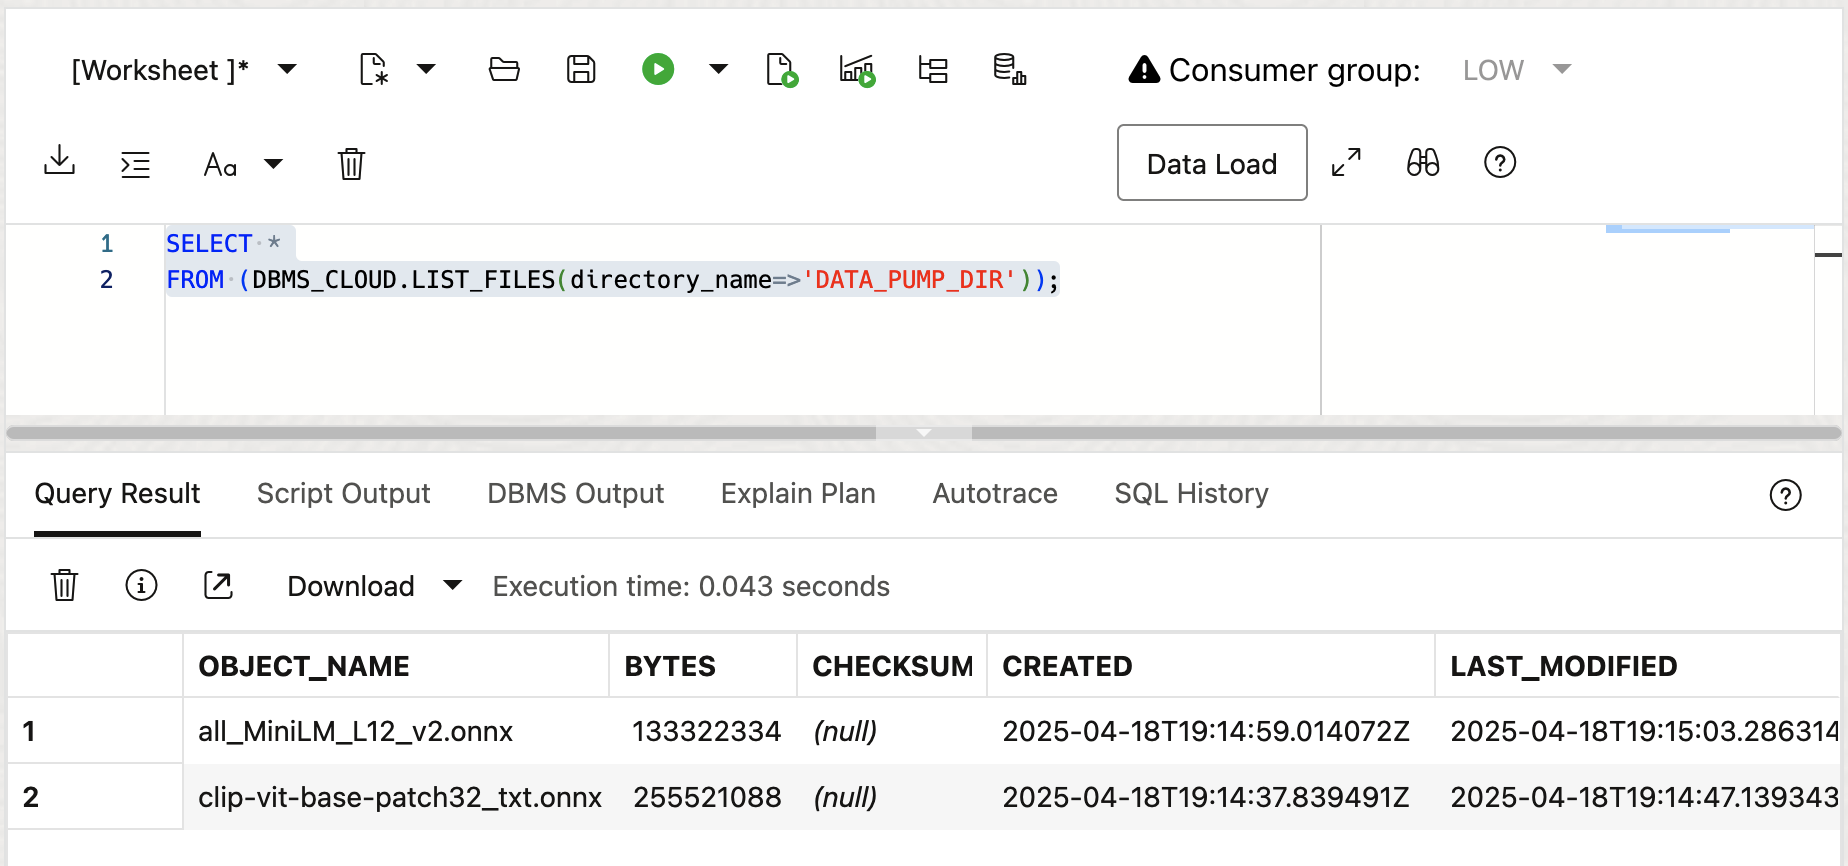
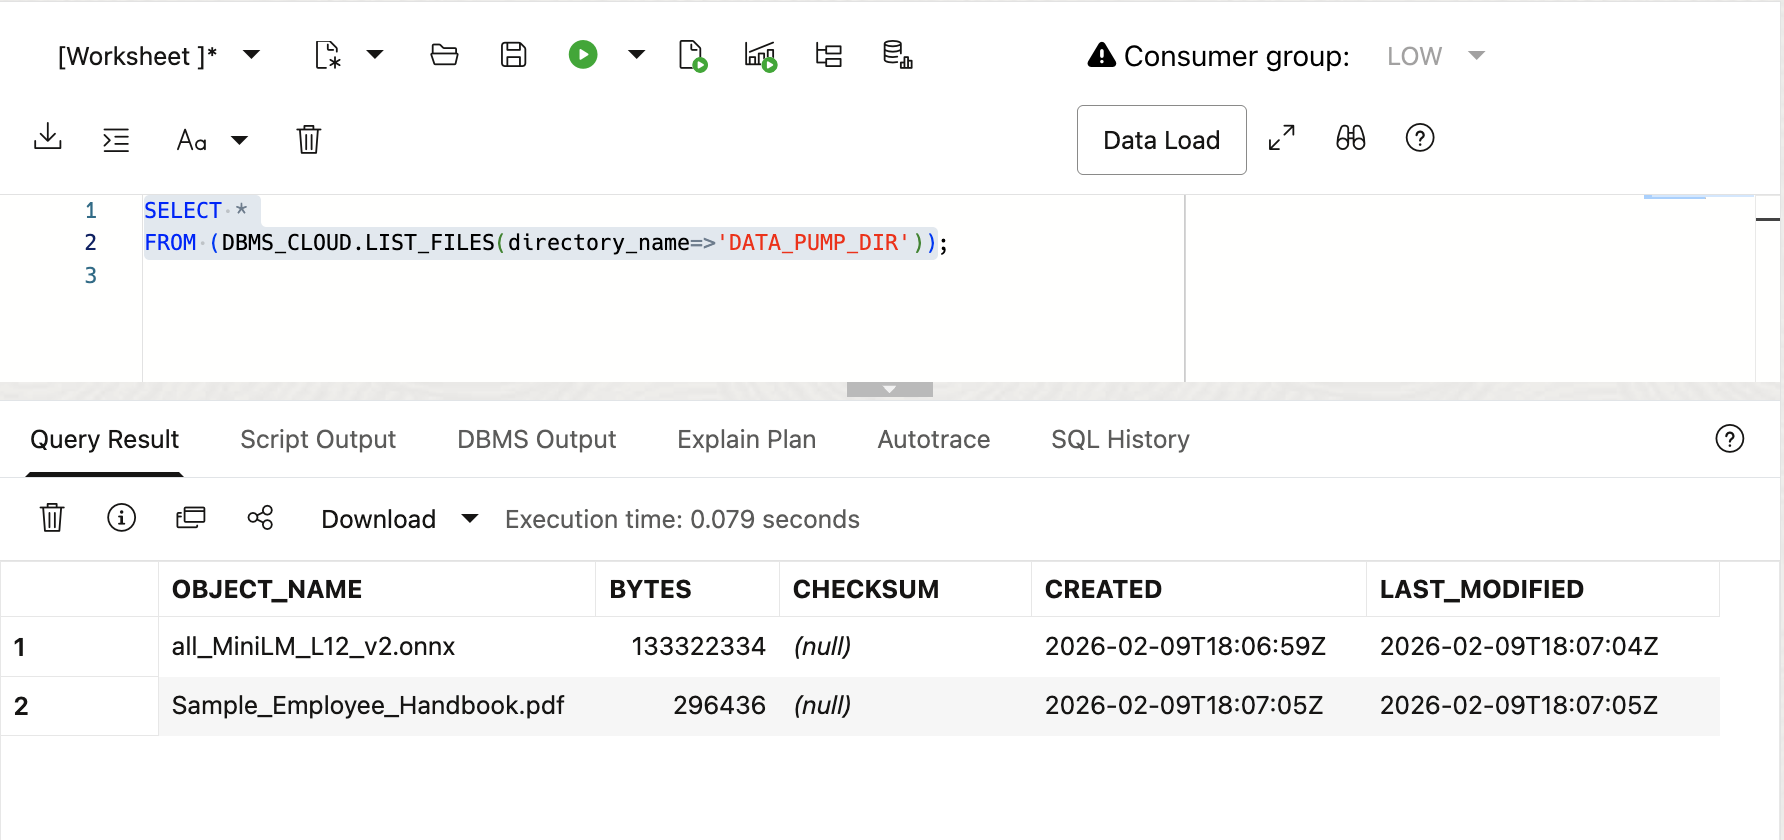
Updates for new RAG and Image Search labs

diff --git a/ai-vector-search-fundamentals/rag/rag.md b/ai-vector-search-fundamentals/rag/rag.md
@@ -98,9 +98,9 @@ This task will load the sample employee handbook into the database, and then con
     ```
     <copy>
     VARIABLE user_query VARCHAR2(1000);
-    EXEC :user_query := 'How do I drop a dependent?';
+    EXEC :user_query := 'How much sick leave do I get?';
     SELECT doc_id, embed_id, embed_data FROM doc_chunks
-    ORDER BY VECTOR_DISTANCE(embed_vector, VECTOR_EMBEDDING(minilm_l12_v2 USING :user_query as data), COSINE)
+    ORDER BY VECTOR_DISTANCE(embed_vector, VECTOR_EMBEDDING(minilm_l12_v2 USING :user_query AS data), COSINE)
     FETCH FIRST 3 ROWS ONLY;
     </copy>
     ```
@@ -152,14 +152,22 @@ To set up the OCI Gen AI Service for our Lab we will first create a network ACL 
     BEGIN
       DBMS_NETWORK_ACL_ADMIN.APPEND_HOST_ACE(
         host => '*',
-        ace => xs$ace_type(privilege_list => xs$name_list('connect'),
+        ace => xs$ace_type(privilege_list => xs$name_list('http'),
                            principal_name => 'NATIONALPARKS',
                            principal_type => xs_acl.ptype_db));
     END;
     </copy>
     ```
 
-2. Next we will create an OCI credential. To do this you will need to look up some information about your OCI lab environment.  Generative AI requires the following authentication parameters:
+2. You can run the following to verify that the ACL has been created:
+
+    ```
+    <copy>
+    SELECT * FROM DBA_NETWORK_ACL_PRIVILEGES;
+    </copy>
+    ```
+
+3. Next we will create an OCI credential. To do this you will need to look up some information about your OCI lab environment.  Generative AI requires the following authentication parameters:
 
     ```
     "user_ocid"
@@ -172,36 +180,36 @@ To set up the OCI Gen AI Service for our Lab we will first create a network ACL 
     The first step will be to create API Keys for the user and tenancy ocids and your private fingerprint.
     You can find more details about this in the [DBMS\_VECTOR\_CHAIN](https://docs.oracle.com/en/database/oracle/oracle-database/26/arpls/dbms_vector_chain1.html?source=%3Aso%3Afb%3Aor%3Aawr%3Aodb%3A%3A%3AEM13CTechForum+%3Aow%3Aevp%3Acpo%3A%3A%3A%3ARC_WWMK220222P00068%3AOER400222946Enterprisebyrelease) description in the Oracle AI Database 26ai PL/SQL Packages and Types Reference.
 
-1. Click **My Profile** at the top-right corner and select **User settings**.
+4. Click **My Profile** at the top-right corner and select **User settings**.
 
     ![Profile Menu](./images/profile.png " ")
 
-2. Under **Tokens and keys** tab and click **Add API key**.
+5. Under **Tokens and keys** tab and click **Add API key**.
 
     ![Add API Key](./images/api-keys.png " ")
 
-3. The Add API key dialog is displayed. Select **Generate API key pair** to create a new key pair.
+6. The Add API key dialog is displayed. Select **Generate API key pair** to create a new key pair.
 
-4. Click **Download private key**. A **.pem** file will be saved to your local device. You do not need to download the public key.
+7. Click **Download private key**. A **.pem** file will be saved to your local device. You do not need to download the public key.
 
     >*Note: You will use this private key while configuring the web credentials in a following step.*
 
-5. Click **Add**.
+8. Click **Add**.
 
     ![Profile Menu](./images/add-api-key.png " ")
 
-6. The key is added, and the Configuration file preview is displayed. Copy and save the configuration file snippet from the text box into a notepad. You will use this information to create OCI credential id a following step.
+9. The key is added, and the Configuration file preview is displayed. Copy and save the configuration file snippet from the text box into a notepad. You will use this information to create OCI credential id a following step.
 
     ![Profile Menu](./images/configuration-preview.png " ")
 
-7. Copy the following template into a Database Actions SQL window, but do not execute it:
+10. Copy the following template into a Database Actions SQL window, but do not execute it:
 
     ```
     <copy>
     DECLARE
-      jo json_object_t;
+      jo JSON_OBJECT_T;
     BEGIN
-      jo := json_object_t();
+      jo := JSON_OBJECT_T();
       jo.put('user_ocid','ocid1.user. ');
       jo.put('tenancy_ocid','ocid1.tenancy. ');
       jo.put('compartment_ocid','ocid1.compartment. ');
@@ -214,18 +222,19 @@ To set up the OCI Gen AI Service for our Lab we will first create a network ACL 
     </copy>
     ```
 
-  Now add your ocid specific strings, private_key and fingerprint to the PL/SQL block. The following will help you find each string value in your OCI console:
-    ```
-    "user_ocid"       : "<user ocid>",        <= see Profile -> User name -> Details
-    "tenancy_ocid"    : "<tenancy ocid>",     <= see Profile -> Tenancy: <tenancy name>
-    "compartment_ocid": "<compartment ocid>", <= see Compartments for Vector-Search-PM
-    "private_key"     : "<private key>",      <= downloaded private key in .pem file
-    "fingerprint"     : "<fingerprint>"       <= see Profile -> User name -> Tokens and Keys
-    ```
+    Now add your ocid specific strings, private_key and fingerprint to the PL/SQL block. The following will help you find each string value in your OCI console:
 
-8. Now execute the create credential PL/SQL block by clicking on the run script icon.
+      ```
+      "user_ocid"        : "<user ocid>",        <= see Profile -> User name -> Details
+      "tenancy_ocid"     : "<tenancy ocid>",     <= see Profile -> Tenancy: <tenancy name>
+      "compartment_ocid" : "<compartment ocid>", <= see Compartments for Vector-Search-PM
+      "private_key"      : "<private key>",      <= downloaded private key in .pem file
+      "fingerprint"      : "<fingerprint>"       <= see Profile -> User name -> Tokens and Keys
+      ```
 
-9. You can run the following to verify that the credential has been created:
+11. Now execute the create credential PL/SQL block by clicking on the run script icon.
+
+12. You can run the following to verify that the credential has been created:
 
     ```
     <copy>
@@ -308,11 +317,11 @@ In this task we will run a Generative AI query to ask the LLM a simple benefits 
 
     ```
     <copy>
-    variable user_question varchar2(1000);
-    exec :user_question := 'What is the retirement plan?';
-    select embed_data from doc_chunks
-    order by vector_distance(embed_vector, VECTOR_EMBEDDING(minilm_l12_v2 USING :user_question as data), COSINE)
-    fetch first 3 rows only;
+    VARIABLE user_question VARCHAR2(1000);
+    EXEC :user_question := 'What is the retirement plan?';
+    SELECT embed_data FROM doc_chunks
+    ORDER BY VECTOR_DISTANCE(embed_vector, VECTOR_EMBEDDING(minilm_l12_v2 USING :user_question as data), COSINE)
+    FETCH FIRST 3 ROWS ONLY;
     </copy>
     ```
     You should see something similar to the following:
@@ -352,28 +361,28 @@ In this task we will run a Generative AI query to ask the LLM a simple benefits 
 
     ```
     <copy>
-    declare
-      llm_params         varchar2(1000);
-      user_question      varchar2(1000);
-      llm_response       clob;
-      llm_prompt_text    clob;
-    begin
+    DECLARE
+      llm_params         VARCHAR2(1000);
+      user_question      VARCHAR2(1000);
+      llm_response       CLOB;
+      llm_prompt_text    CLOB;
+    BEGIN
       llm_params := '{"provider":"ocigenai","credential_name":"OCI_GENAI_CRED","url":"https://inference.generativeai.us-chicago-1.oci.oraclecloud.com/20231130/actions/chat","model":"meta.llama-3.2-90b-vision-instruct"}';
       user_question := 'What is the retirement plan?';
       --
-      with
-        top_k as
-          (select embed_data from doc_chunks
-           order by vector_distance(embed_vector, VECTOR_EMBEDDING(minilm_l12_v2 USING user_question as data), COSINE)
-           fetch first 3 rows only),
-        llm_prompt as
-          (select ('Question: ' ||
-           user_question || ', Context: ' || LISTAGG(embed_data, CHR(10))) as prompt_text from top_k)
-      select prompt_text into llm_prompt_text from llm_prompt;
+      WITH
+        top_k AS
+          (SELECT embed_data FROM doc_chunks
+           ORDER BY VECTOR_DISTANCE(embed_vector, VECTOR_EMBEDDING(minilm_l12_v2 USING user_question AS data), COSINE)
+           FETCH FIRST 3 ROWS ONLY),
+        llm_prompt AS
+          (SELECT ('Question: ' ||
+           user_question || ', Context: ' || LISTAGG(embed_data, CHR(10))) AS prompt_text FROM top_k)
+      SELECT prompt_text INTO llm_prompt_text FROM llm_prompt;
       --
-      llm_response := dbms_vector_chain.utl_to_generate_text(llm_prompt_text, json(llm_params));
-      dbms_output.put_line('llm_response: ' || llm_response);
-    end;
+      llm_response := DBMS_VECTOR_CHAIN.UTL_TO_GENERATE_TEXT(llm_prompt_text, JSON(llm_params));
+      DBMS_OUTPUT.PUT_LINE('llm_response: ' || llm_response);
+    END;
     </copy>
     ```
 

diff --git a/ai-vector-search-fundamentals/adb_setup/create-nationalparks-user.md b/ai-vector-search-fundamentals/adb_setup/create-nationalparks-user.md
@@ -115,7 +115,9 @@ When you create a new Autonomous Database, you automatically get an account call
     -- QUOTA
     GRANT ORDS_RUNTIME_ROLE TO nationalparks;
     GRANT EXECUTE ON dbms_cloud TO nationalparks;
-    GRANT EXECUTE ON DBMS_NETWORK_ACL_ADMIN TO nationalparks
+    GRANT EXECUTE ON dbms_cloud_ai TO nationalparks;
+    GRANT EXECUTE ON dbms_vector TO nationalparks;
+    GRANT EXECUTE ON DBMS_NETWORK_ACL_ADMIN TO nationalparks;
     GRANT READ,WRITE ON directory data_pump_dir TO nationalparks;
     GRANT CREATE mining model TO nationalparks;
     GRANT SELECT ON sys.v_$vector_memory_pool TO nationalparks;
@@ -147,23 +149,17 @@ When you create a new Autonomous Database, you automatically get an account call
     <copy>
     begin
       dbms_cloud.get_object(
-        object_uri=>'https://c4u04.objectstorage.us-ashburn-1.oci.customer-oci.com/p/EcTjWk2IuZPZeNnD_fYMcgUhdNDIDA6rt9gaFj_WZMiL7VvxPBNMY60837hu5hga/n/c4u04/b/livelabsfiles/o/labfiles/clip-vit-base-patch32_txt.onnx',
+        object_uri=>'https://c4u04.objectstorage.us-ashburn-1.oci.customer-oci.com/p/EcTjWk2IuZPZeNnD_fYMcgUhdNDIDA6rt9gaFj_WZMiL7VvxPBNMY60837hu5hga/n/c4u04/b/livelabsfiles/o/labfiles/all_MiniLM_L12_v2.onnx',
         directory_name=>'DATA_PUMP_DIR',
-        file_name=>'clip-vit-base-patch32_txt.onnx'
+        file_name=>'all_MiniLM_L12_v2.onnx'
       );
     end;
     /
     begin
-      dbms_vector.load_onnx_model(directory=>'DATA_PUMP_DIR', 
-        file_name=>'clip-vit-base-patch32_txt.onnx', model_name=>'clip_vit_txt',
-        metadata=>JSON('{"function" : "embedding", "embeddingOutput" : "embedding" , "input": {"input": ["DATA"]}}'));
-    end;
-    /
-    begin
       dbms_cloud.get_object(
-        object_uri=>'https://c4u04.objectstorage.us-ashburn-1.oci.customer-oci.com/p/EcTjWk2IuZPZeNnD_fYMcgUhdNDIDA6rt9gaFj_WZMiL7VvxPBNMY60837hu5hga/n/c4u04/b/livelabsfiles/o/labfiles/all_MiniLM_L12_v2.onnx',
+        object_uri=>'https://objectstorage.us-ashburn-1.oraclecloud.com/p/Fi6_7TWwA2VkaSHTl76t2TiSUkdAfL7C8aR_3S_WIPMGth0XWXyPDzutxTD63oAk/n/oradbclouducm/b/bucket-vector/o/Sample_Employee_Handbook.pdf',
         directory_name=>'DATA_PUMP_DIR',
-        file_name=>'all_MiniLM_L12_v2.onnx'
+        file_name=>'Sample_Employee_Handbook.pdf'
       );
     end;
     /
@@ -183,12 +179,18 @@ When you create a new Autonomous Database, you automatically get an account call
     DECLARE
       l_job_state      VARCHAR2(1000);
       l_job_handle     NUMBER;
+      dumpFile         VARCHAR2(1024)  := 'https://objectstorage.us-ashburn-1.oraclecloud.com/p/_ixVvYet-j7csDKdAgh-E70r1LKw9GYLWZEPkcAzjOklSmvl9KlFOIEFKOIZOIgo/n/oradbclouducm/b/bucket-vector/o/natparks2.dmp';
+      logFile          VARCHAR2(1024)  := 'natparks2_imp.log';
+      logDir           VARCHAR2(20)     := 'DATA_PUMP_DIR';
+      objStor_uri      VARCHAR2(1024)  := 'https://objectstorage.us-ashburn-1.oraclecloud.com/n/oradbclouducm/b/bucket-vector/o/';
+      logType          NUMBER          := dbms_datapump.ku$_file_type_log_file;
     BEGIN
-      l_job_handle := DBMS_DATAPUMP.OPEN(OPERATION=>'IMPORT', JOB_MODE=>'FULL', JOB_NAME=>'TEST_DP_1', VERSION => 'LATEST');
-      DBMS_DATAPUMP.ADD_FILE(HANDLE=>l_job_handle, FILENAME=>'https://c4u04.objectstorage.us-ashburn-1.oci.customer-oci.com/p/EcTjWk2IuZPZeNnD_fYMcgUhdNDIDA6rt9gaFj_WZMiL7VvxPBNMY60837hu5hga/n/c4u04/b/livelabsfiles/o/labfiles/natparks.dmp', DIRECTORY=>'DATA_PUMP_DIR');
-      DBMS_DATAPUMP.START_JOB(HANDLE=>l_job_handle, SKIP_CURRENT=>0, ABORT_STEP=>0);
-      DBMS_DATAPUMP.WAIT_FOR_JOB(HANDLE=>l_job_handle, JOB_STATE=>l_job_state);
-      DBMS_DATAPUMP.DETACH(HANDLE=>l_job_handle);
+      l_job_handle := DBMS_DATAPUMP.OPEN(OPERATION=>'IMPORT', JOB_MODE=>'FULL', JOB_NAME=>'IMP_DP_1', VERSION => 'LATEST');
+      DBMS_DATAPUMP.ADD_FILE(HANDLE => l_job_handle, FILENAME => dumpFile, DIRECTORY => logDir);
+      DBMS_DATAPUMP.ADD_FILE(HANDLE => l_job_handle, FILENAME => logFile, DIRECTORY => logDir, FILETYPE => logType);
+      DBMS_DATAPUMP.START_JOB(HANDLE => l_job_handle, SKIP_CURRENT => 0, ABORT_STEP => 0);
+      DBMS_DATAPUMP.WAIT_FOR_JOB(HANDLE => l_job_handle, JOB_STATE => l_job_state);
+      DBMS_DATAPUMP.DETACH(HANDLE => l_job_handle);
     END;
     /
     </copy>
@@ -200,7 +202,7 @@ When you create a new Autonomous Database, you automatically get an account call
 
     ![create cloudshell](images/cloudshell_selection.png)
 
-  You can expand the cloudshell window by clicking on the slanted double arrows if you want to make the window bigger.
+    You can expand the cloudshell window by clicking on the slanted double arrows if you want to make the window bigger.
 
     ![expand cloudshell](images/create_cloudshell.png)
 
@@ -208,8 +210,9 @@ When you create a new Autonomous Database, you automatically get an account call
 
     ```
     <copy>
-    wget https://c4u04.objectstorage.us-ashburn-1.oci.customer-oci.com/p/EcTjWk2IuZPZeNnD_fYMcgUhdNDIDA6rt9gaFj_WZMiL7VvxPBNMY60837hu5hga/n/c4u04/b/livelabsfiles/o/labfiles/w100001.sql
-    wget https://c4u04.objectstorage.us-ashburn-1.oci.customer-oci.com/p/EcTjWk2IuZPZeNnD_fYMcgUhdNDIDA6rt9gaFj_WZMiL7VvxPBNMY60837hu5hga/n/c4u04/b/livelabsfiles/o/labfiles/f114.sql
+    wget https://c4u04.objectstorage.us-ashburn-1.oci.customer-oci.com/p/EcTjWk2IuZPZeNnD_fYMcgUhdNDIDA6rt9gaFj_WZMiL7VvxPBNMY60837hu5hga/n/c4u04/b/livelabsfiles/o/labfiles/apex_workspace.sql
+    wget https://c4u04.objectstorage.us-ashburn-1.oci.customer-oci.com/p/EcTjWk2IuZPZeNnD_fYMcgUhdNDIDA6rt9gaFj_WZMiL7VvxPBNMY60837hu5hga/n/c4u04/b/livelabsfiles/o/labfiles/apex_natparks_demo.sql
+    wget https://c4u04.objectstorage.us-ashburn-1.oci.customer-oci.com/p/EcTjWk2IuZPZeNnD_fYMcgUhdNDIDA6rt9gaFj_WZMiL7VvxPBNMY60837hu5hga/n/c4u04/b/livelabsfiles/o/labfiles/apex_benny_benefits.sql
     </copy>
     ```
   ![copy apex files](images/copy_apex_files.png)
@@ -243,8 +246,41 @@ When you create a new Autonomous Database, you automatically get an account call
 
     ```
     sql ADMIN/Training4ADW@<insert your TNS alias here>
-    @w100001.sql
-    @f114.sql
+    -- Use this to prevent getting a remote server error message.
+    BEGIN
+       -- first set the workspace
+       apex_util.set_workspace(p_workspace => 'NATIONALPARKS');
+    
+        apex_application_install.set_remote_server(
+            p_static_id => 'oci_gen_ai',
+            p_base_url => 'https://inference.generativeai.us-chicago-1.oci.oraclecloud.com');
+    END;
+    /
+    @apex_workspace.sql
+    @apex_natparks_demo.sql
+    @apex_benny_benefits.sql
+    BEGIN
+       -- This is required to set the OCIDs for the new environment
+       -- so that the GenAI access will work
+       
+       -- first set the workspace
+       apex_util.set_workspace(p_workspace => 'NATIONALPARKS');
+    
+      -- set_persistent_credentials for "credentials_for_oci_gen_ai"
+      -- p_credential_static_id = Static ID
+      -- p_client_id = OCI User ID
+      -- p_client_secret = OCI Private Key
+      -- p_namespace = OCI Tenancy OCID
+      -- p_fingerprint = OCI Public Key Fingerprint
+      --
+      apex_credential.set_persistent_credentials (
+          p_credential_static_id => 'credentials_for_oci_gen_ai',
+          p_client_id => 'ocid1.user.oc1..  ',
+          p_client_secret => '  ',
+         p_namespace => 'ocid1.tenancy.oc1..  ',
+         p_fingerprint => '  ' );
+    END;
+    /
     ```
 
     ![run sqlcl](images/run_sqlcl.png)
@@ -256,4 +292,4 @@ You may now **proceed to the next lab**
 
 - **Author** - Andy Rivenes, Product Manager, AI Vector Search
 - **Contributors** - David Start
-- **Last Updated By/Date** - Andy Rivenes, Product Manager, AI Vector Search, August 2025
+- **Last Updated By/Date** - Andy Rivenes, Product Manager, AI Vector Search, February 2026

diff --git a/ai-vector-search-fundamentals/2-embedding_models/text_embeddings.md b/ai-vector-search-fundamentals/2-embedding_models/text_embeddings.md
@@ -16,7 +16,7 @@ To enable similarity search, we will need to create vector embeddings for the co
 
 Vector embeddings are generated using Machine Learning models. How do you decide which embedding model to use? After all, there are open-source embedding models and proprietary embedding models that you might have to pay for, or you could create and train your own embedding models. To add to the confusion, each embedding model has been trained on specific data. The type of embedding model you use will depend on the type of data that you plan to embed and how well that model performs for the searches you or your application need to perform.
 
-Once you decide on one or more embedding models to try, you can choose to create vector embeddings outside the database or inside the database by importing the models directly into Oracle Database if they are compatible with the Open Neural Network Exchange (ONNX) standard. Since Oracle Database uses the ONNX runtime directly within the database, these imported models can be used to generate vector embeddings in Oracle Database.
+Once you decide on one or more embedding models to try, you can choose to create vector embeddings outside the database or inside the database by importing the models directly into Oracle AI Database if they are compatible with the Open Neural Network Exchange (ONNX) standard. Since Oracle AI Database uses the ONNX runtime directly within the database, these imported models can be used to generate vector embeddings in Oracle AI Database.
 
 In this Lab we are going to be searching on a text column, and we will use the all-MiniLM-L12-v2 model. This model was built using the sentence-transformers library. This model takes sentences or paragraphs and converts them into 384-dimensional vectors. Each of these 384 dimensions captures a specific aspect of the sentence's meaning or characteristics. We will be using a pre-built version of this model, which just means that it has already been converted into an ONNX format and is ready to be loaded into the database. You can find the details about how this was done in the blog post [Now Available! Pre-built Embedding Generation model for Oracle Database 23ai] (https://blogs.oracle.com/machinelearning/post/use-our-prebuilt-onnx-model-now-available-for-embedding-generation-in-oracle-database-23ai).
 
@@ -38,7 +38,7 @@ This lab assumes you have:
 
 ## Task 1: Load an embedding model into the database
 
-This task will involve identifying and loading an ONNX model into the database. The pre-built all\_MiniLM\_L12\_v2 will be used as described in the "About Vector Embedding" section above.
+This task will involve identifying and loading an ONNX compatible embedding model into the database. The pre-built all\_MiniLM\_L12\_v2 will be used as described in the "About Vector Embedding" section above.
 
 1. Let's verify that the all\_MiniLM\_L12\_v2 embedding model is not currently loaded:
     ```
@@ -50,7 +50,7 @@ This task will involve identifying and loading an ONNX model into the database. 
 
     ![Mining models query](images/embedding_models1.png " ")
 
-    You may see the CLIP\_VIT\_TXT embedding model that we will use later in the Image Search lab.
+    You will see the CLIP\_VIT\_TXT and CLIP\_VIT\_IMG embedding models that will used in other labs.
 
 2. Next we will load the all\_MiniLM\_L12\_v2 embedding model into the database. The file is in the DATA\_PUMP\_DIR directory. You can display this directory with the following SQL:
 
@@ -111,11 +111,11 @@ This task will involve identifying and loading an ONNX model into the database. 
 
 ## Task 2: Describe and display a vector
 
-AI Vector Search adds a new VECTOR data type to Oracle Database. You can add one or more VECTOR data type columns to your application's table(s) to store vector embeddings. A vector embedding is a mathematical representation of data points or, more simply, an array of numbers. Vector embeddings are generated using Machine Learning models to represent the meaning of the data. We will create vector embeddings in the next lab using the VECTOR data type we add in this lab.
+AI Vector Search adds a new VECTOR data type to Oracle AI Database. You can add one or more VECTOR data type columns to your application's table(s) to store vector embeddings. A vector embedding is a mathematical representation of data points or, more simply, an array of numbers. Vector embeddings are generated using Machine Learning models, like the all\_MiniLM\_L12\_v2 embedding model that we loaded in Task 1, to represent the meaning of the data. We will create vector embeddings in the next task and store them in our database in a VECTOR data type that we will add in this lab.
 
 The VECTOR data type is created as a column in a table. You can optionally specify the number of dimensions and their format. If you don't specify any dimension or format, you can enter vectors of different dimensions with different formats. This is a simplification to help you get started with using vectors in Oracle Database with different vector embedding models.
 
-The number of dimensions must be strictly greater than zero, with a maximum of 65535 vectors.
+The number of dimensions must be strictly greater than zero, with a maximum of 65535 dimensions.
 
 The possible dimension formats are:
 *	INT8 (8-bit integers) 
@@ -123,7 +123,7 @@ The possible dimension formats are:
 *	FLOAT64 (64-bit IEEE floating-point numbers) 
 *	BINARY (packed UINT8 bytes where each dimension is a single bit) 
 
-Now that we have loaded an embedding model let's take a look at what a vector looks like.
+Now that we have loaded an embedding model let's create a vector and see what it looks like.
 
 1. In the SQL Developer Web window copy the following example of creating a vector embedding for the word 'hello'.
 

diff --git a/ai-vector-search-fundamentals/database_connection/sandbox_connection.md b/ai-vector-search-fundamentals/database_connection/sandbox_connection.md
@@ -20,7 +20,7 @@ This lab assumes you have:
 
 ## Task 1: Connecting to your Oracle AI Vector Database
 
-The lab environment is run in Oracle Autonomous Database (ADB) 23ai which includes AI Vector Search. We will be running the lab exercises using SQL Developer Web. The URL to access SQL Developer Web can be found on the Introduction page that should now be displayed after you clicked on the launch the workshop button.
+The lab environment is run in Oracle Autonomous Database (ADB) 26ai which includes AI Vector Search. We will be running the lab exercises using SQL Developer Web. The URL to access SQL Developer Web can be found on the Introduction page that should now be displayed after you clicked on the launch the workshop button.
 
 See the image below for an example:
 
